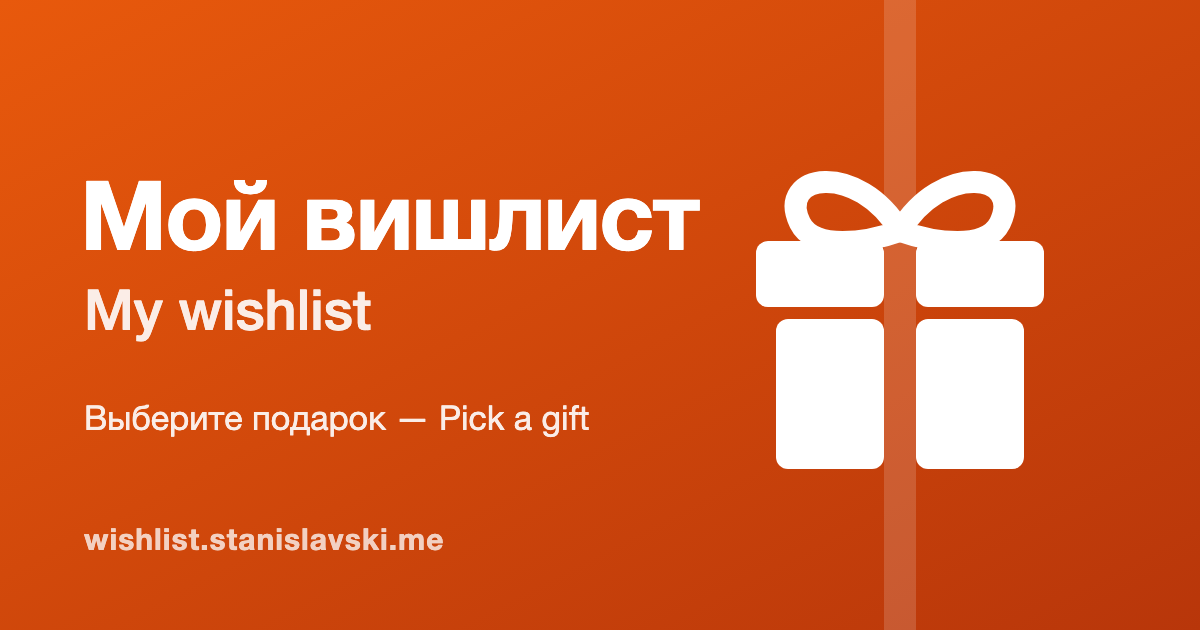
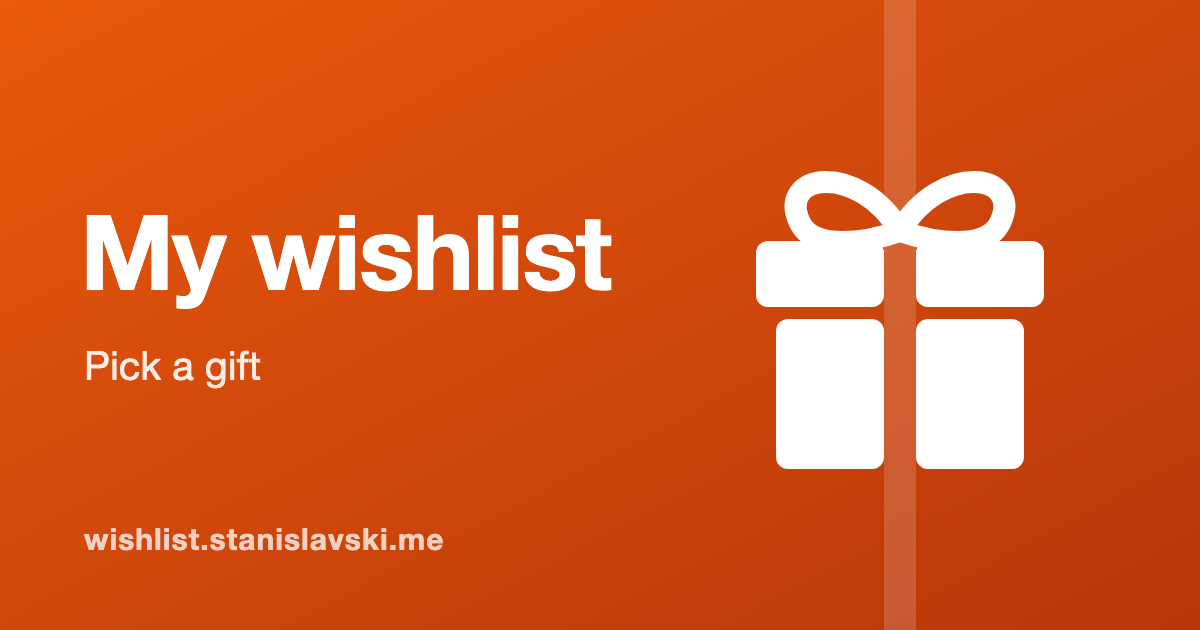
Link previews in English only

Changed region(s): [[0.0617, 0.2714, 0.5858, 0.6937]]

diff --git a/templates/layout.html b/templates/layout.html
@@ -12,18 +12,18 @@
 {{if not .Admin}}
 <meta name="description" content="{{.Description}}">
 <meta property="og:type" content="website">
-<meta property="og:site_name" content="{{.SiteTitle}}">
-<meta property="og:title" content="{{.PageTitle}}">
+<meta property="og:site_name" content="{{.OGTitle}}">
+<meta property="og:title" content="{{.OGTitle}}">
 <meta property="og:description" content="{{.Description}}">
 <meta property="og:url" content="{{.Origin}}/">
-<meta property="og:locale" content="{{if eq .Lang "ru"}}ru_RU{{else}}en_US{{end}}">
+<meta property="og:locale" content="en_US">
 <meta property="og:image" content="{{.Origin}}/static/og.png?v={{.Version}}">
 <meta property="og:image:type" content="image/png">
 <meta property="og:image:width" content="1200">
 <meta property="og:image:height" content="630">
-<meta property="og:image:alt" content="{{.SiteTitle}}">
+<meta property="og:image:alt" content="{{.OGTitle}}">
 <meta name="twitter:card" content="summary_large_image">
-<meta name="twitter:title" content="{{.PageTitle}}">
+<meta name="twitter:title" content="{{.OGTitle}}">
 <meta name="twitter:description" content="{{.Description}}">
 <meta name="twitter:image" content="{{.Origin}}/static/og.png?v={{.Version}}">
 {{end}}

diff --git a/app.go b/app.go
@@ -225,19 +225,24 @@ type base struct {
 	Admin     bool
 	NoNav     bool // login page
 
-	// For link previews (Open Graph): public origin and the site's intro.
+	// For link previews (Open Graph), always in English: public origin, the
+	// English site title (or the page's own, e.g. a gift's name) and intro.
 	Origin      string
+	OGTitle     string
 	Description string
 }
 
 func (a *App) base(r *http.Request, lang, pageTitle string) base {
-	var site, intro string
-	a.store.view(func(d *Data) { site, intro = d.Settings.title(lang), d.Settings.intro(lang) })
+	var site, siteEN, introEN string
+	a.store.view(func(d *Data) {
+		site, siteEN, introEN = d.Settings.title(lang), d.Settings.TitleEN, d.Settings.IntroEN
+	})
+	ogTitle := pageTitle
 	if pageTitle == "" {
-		pageTitle = site
+		pageTitle, ogTitle = site, siteEN
 	}
 	return base{Lang: lang, PageTitle: pageTitle, SiteTitle: site, Path: r.URL.Path, Version: version,
-		Origin: a.origin(r), Description: intro}
+		Origin: a.origin(r), OGTitle: ogTitle, Description: introEN}
 }
 
 func (a *App) render(w http.ResponseWriter, status int, name string, data any) {

diff --git a/wishlist_test.go b/wishlist_test.go
@@ -490,6 +490,16 @@ func TestIconsAndLinkPreview(t *testing.T) {
 		}
 	}
 
+	// Previews stay English even for a Russian-language request.
+	req, _ := http.NewRequest(http.MethodGet, srv.URL+"/", nil)
+	req.Header.Set("Accept-Language", "ru-RU,ru;q=0.9")
+	resp, _ = http.DefaultClient.Do(req)
+	page = body(t, resp)
+	if !strings.Contains(page, `<title>Мой вишлист</title>`) || !strings.Contains(page, `<meta property="og:title" content="My wishlist">`) ||
+		!strings.Contains(page, `<meta property="og:locale" content="en_US">`) {
+		t.Error("Russian request: page should be Russian, preview tags English")
+	}
+
 	resp, _ = http.Get(srv.URL + "/robots.txt")
 	robots := body(t, resp)
 	if !strings.Contains(robots, "User-agent: Twitterbot") || !strings.Contains(robots, "User-agent: *\nDisallow: /\n") {
